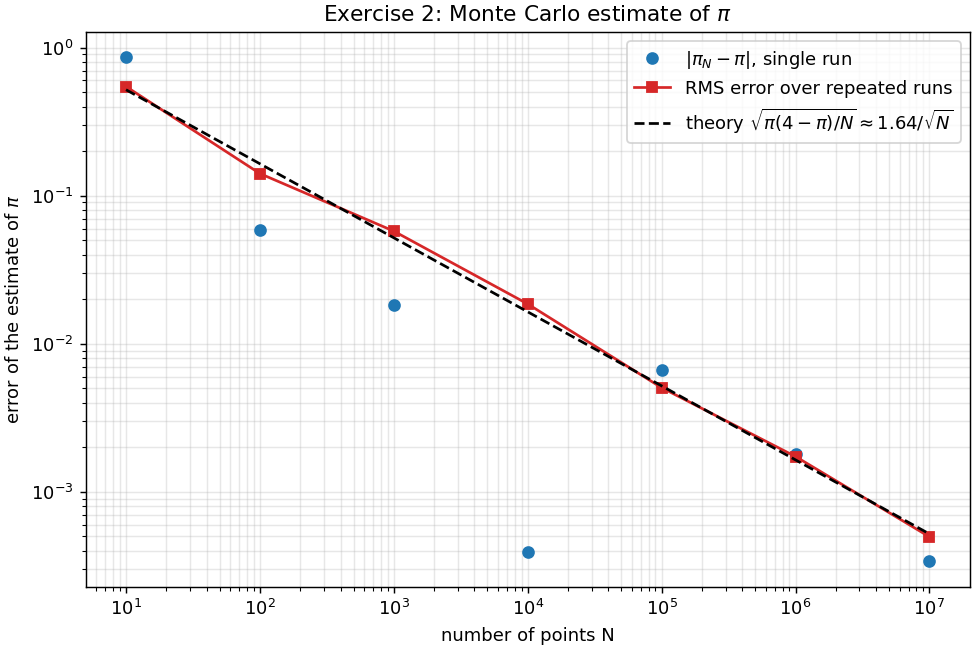
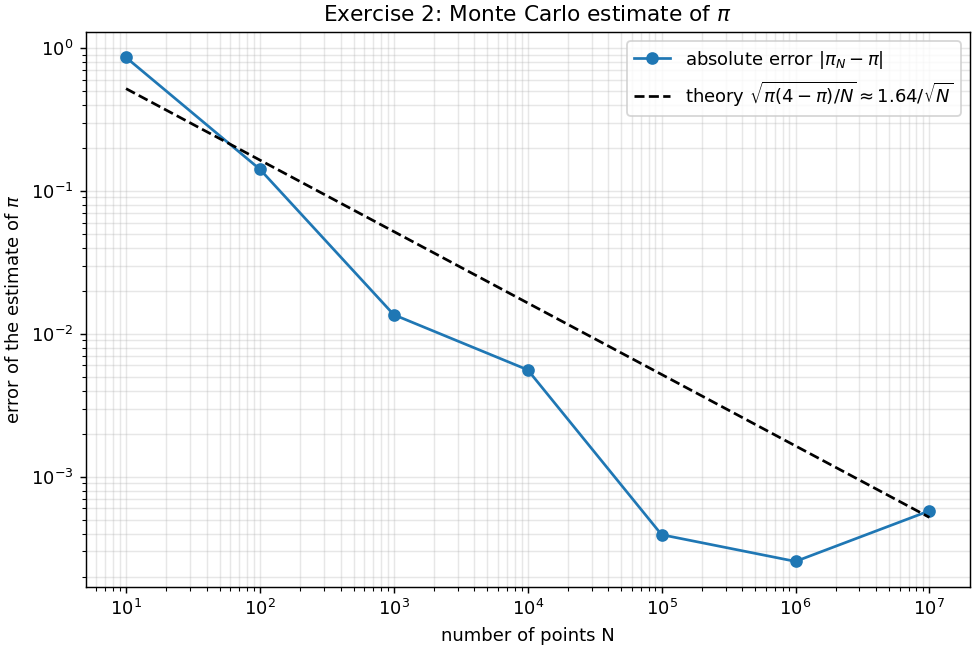
fixing

diff --git a/HomeWork7/monte_carlo_pi.c b/HomeWork7/monte_carlo_pi.c
@@ -6,13 +6,13 @@
 // As in the notebook, x and y come from two RNG STREAMS: the same generator (the LCG) started
 // from two different seeds (123 for x, 987654321 for y).
 //
-// Each "inside" is a Bernoulli variable with p = pi/4, so
+// Each "inside" is a Bernoulli variable with p = pi/4, so the expected error is
 //   sigma(pi_N) = 4 sqrt(p (1-p) / N) = sqrt(pi (4 - pi) / N) ~ 1.64 / sqrt(N).
-// For every N the estimate is repeated R times (the streams simply continue) to
-// measure the RMS error, which should follow this 1/sqrt(N) law.
+// The program estimates pi for N = 10, 100, ..., N_max and compares the absolute error
+// |pi_N - pi| with this 1/sqrt(N) law.
 //
-// Usage: ./monte_carlo_pi [N_max] [R] [seed_x] [seed_y]
-//        (default N_max = 1e7, R = 20, seeds 123 and 987654321)
+// Usage: ./monte_carlo_pi [N_max] [seed_x] [seed_y]
+//        (default N_max = 1e7, seeds 123 and 987654321)
 // Output: output/monte_carlo_pi.csv
 
 #include "common.h"
@@ -38,50 +38,28 @@ static double estimate_pi(lcg_t *gx, lcg_t *gy, unsigned long N)
 int main(int argc, char *argv[])
 {
     unsigned long N_max = arg_ulong(argc, argv, 1, 10000000, "N_max");
-    unsigned long R = arg_ulong(argc, argv, 2, 20, "R (repetitions)");
-    uint32_t seed_x = arg_seed(argc, argv, 3, 123u);
-    uint32_t seed_y = arg_seed(argc, argv, 4, 987654321u);
+    uint32_t seed_x = arg_seed(argc, argv, 2, 123u);
+    uint32_t seed_y = arg_seed(argc, argv, 3, 987654321u);
     lcg_t gx = lcg_new(seed_x); // stream 1: x coordinates
     lcg_t gy = lcg_new(seed_y); // stream 2: y coordinates
 
     FILE *f = open_output("monte_carlo_pi.csv");
-    fprintf(f, "N,pi_first_run,error_first_run,rms_error,expected_sigma\n");
+    fprintf(f, "N,pi_estimate,abs_error,expected_sigma\n");
 
-    printf("Exercise 2: Monte Carlo estimate of pi, two RNG streams (seeds %u, %u), "
-           "%lu repetitions per N\n\n", seed_x, seed_y, R);
-    printf("%11s %14s %12s %12s %14s %8s\n", "N", "pi (1st run)", "error", "RMS error",
-           "sigma theory", "ratio");
+    printf("Exercise 2: Monte Carlo estimate of pi, two RNG streams (seeds %u, %u)\n\n", seed_x,
+           seed_y);
+    printf("%11s %14s %12s %14s\n", "N", "pi estimate", "|error|", "sigma theory");
 
-    double sum_lx = 0, sum_ly = 0, sum_lxx = 0, sum_lxy = 0;
-    int points = 0;
     for (unsigned long N = 10; N <= N_max; N *= 10) {
-        double first = 0.0, sum_sq = 0.0;
-        for (unsigned long k = 0; k < R; k++) {
-            double est = estimate_pi(&gx, &gy, N);
-            if (k == 0)
-                first = est;
-            sum_sq += (est - M_PI) * (est - M_PI);
-        }
-        double rms = sqrt(sum_sq / (double)R);
+        double est = estimate_pi(&gx, &gy, N);
+        double err = fabs(est - M_PI);
         double sigma = sqrt(M_PI * (4.0 - M_PI) / (double)N);
-        printf("%11lu %14.8f %12.2e %12.2e %14.2e %8.2f\n", N, first, first - M_PI, rms, sigma,
-               rms / sigma);
-        fprintf(f, "%lu,%.12f,%.6e,%.6e,%.6e\n", N, first, first - M_PI, rms, sigma);
+        printf("%11lu %14.8f %12.2e %14.2e\n", N, est, err, sigma);
+        fprintf(f, "%lu,%.12f,%.6e,%.6e\n", N, est, err, sigma);
         fflush(stdout);
-
-        // least-squares fit of log10(rms) = a + b log10(N)
-        double lx = log10((double)N), ly = log10(rms);
-        sum_lx += lx;
-        sum_ly += ly;
-        sum_lxx += lx * lx;
-        sum_lxy += lx * ly;
-        points++;
     }
     fclose(f);
 
-    double slope = (points * sum_lxy - sum_lx * sum_ly) / (points * sum_lxx - sum_lx * sum_lx);
-    printf("\nFit RMS error ~ N^b: b = %.3f   (theory: -0.5, i.e. 100x more points -> 10x smaller"
-           " error)\n", slope);
-    printf("Results written to %s/monte_carlo_pi.csv\n", OUTPUT_DIR);
+    printf("\nResults written to %s/monte_carlo_pi.csv\n", OUTPUT_DIR);
     return 0;
 }

diff --git a/HomeWork7/plot_random.py b/HomeWork7/plot_random.py
@@ -65,9 +65,7 @@ def monte_carlo_pi():
     d = read("monte_carlo_pi.csv")
     N = d["N"]
     fig, ax = plt.subplots(figsize=(7.5, 5), constrained_layout=True)
-    ax.loglog(N, [abs(e) for e in d["error_first_run"]], "o", color="tab:blue",
-              label=r"$|\pi_N - \pi|$, single run")
-    ax.loglog(N, d["rms_error"], "s-", color="tab:red", label="RMS error over repeated runs")
+    ax.loglog(N, d["abs_error"], "o-", color="tab:blue", label=r"absolute error $|\pi_N - \pi|$")
     ax.loglog(N, d["expected_sigma"], "--", color="black",
               label=r"theory $\sqrt{\pi(4-\pi)/N} \approx 1.64/\sqrt{N}$")
     ax.set_xlabel("number of points N")

diff --git a/HomeWork7/README.md b/HomeWork7/README.md
@@ -69,31 +69,30 @@ x² + y² ≤ 1 estimates its area π/4, so π_N = 4·(points inside)/N.
 started from two different seeds, 123 for the x coordinates and 987654321 for the y
 coordinates.
 
-**Error.** Each point is "inside" with probability p = π/4, so the theoretical error is
-σ = √(π(4−π)/N) ≈ 1.64/√N. Every N is repeated R = 20 times (the streams simply continue) to
-measure the RMS error:
+**Error.** Each point is "inside" with probability p = π/4, so the expected error of π_N is
+σ = √(π(4−π)/N) ≈ 1.64/√N. The program estimates π for N = 10, 10², …, 10⁷ and compares the
+absolute error |π_N − π| with σ:
 
-| N | π (1st run) | Error | RMS error (20 runs) | σ theory |
-|---|---|---|---|---|
-| 10 | 4.0000000 | 8.6·10⁻¹ | 5.5·10⁻¹ | 5.2·10⁻¹ |
-| 10² | 3.2000000 | 5.8·10⁻² | 1.4·10⁻¹ | 1.6·10⁻¹ |
-| 10³ | 3.1600000 | 1.8·10⁻² | 5.8·10⁻² | 5.2·10⁻² |
-| 10⁴ | 3.1412000 | −3.9·10⁻⁴ | 1.9·10⁻² | 1.6·10⁻² |
-| 10⁵ | 3.1482000 | 6.6·10⁻³ | 5.1·10⁻³ | 5.2·10⁻³ |
-| 10⁶ | 3.1433960 | 1.8·10⁻³ | 1.7·10⁻³ | 1.6·10⁻³ |
-| 10⁷ | 3.1419312 | 3.4·10⁻⁴ | 5.0·10⁻⁴ | 5.2·10⁻⁴ |
-
-**Fitted slope:** RMS error ∝ N^b with **b = −0.500** (theory −0.5).
+| N | π_N | \|π_N − π\| | σ theory |
+|---|---|---|---|
+| 10 | 4.0000000 | 8.6·10⁻¹ | 5.2·10⁻¹ |
+| 10² | 3.0000000 | 1.4·10⁻¹ | 1.6·10⁻¹ |
+| 10³ | 3.1280000 | 1.4·10⁻² | 5.2·10⁻² |
+| 10⁴ | 3.1360000 | 5.6·10⁻³ | 1.6·10⁻² |
+| 10⁵ | 3.1412000 | 3.9·10⁻⁴ | 5.2·10⁻³ |
+| 10⁶ | 3.1418480 | 2.6·10⁻⁴ | 1.6·10⁻³ |
+| 10⁷ | 3.1410156 | 5.8·10⁻⁴ | 5.2·10⁻⁴ |
 
 ![Monte Carlo pi](plots/monte_carlo_pi.png)
 
 **Comment.**
-- **The error decreases like 1/√N.** Every extra correct digit costs 100× more points, and
-  10⁷ points give only ~3 correct decimals. The 1/√N law doesn't depend on the dimension of
-  the integral, which is why Monte Carlo wins for high-dimensional integrals.
-- **A single run is not a measure of the error.** At N = 10⁴, the first run (3.1412, error
-  3.9·10⁻⁴) is 50× more accurate than the typical error at that N (1.9·10⁻²), almost as
-  accurate as 10⁷ points. It was lucky. Only the RMS over many runs follows the 1/√N law.
+- **The error decreases like 1/√N.** Over six orders of magnitude of N the error goes from
+  ~1 to ~10⁻³ and stays below or around σ ≈ 1.64/√N: every extra correct digit costs 100×
+  more points, and 10⁷ points give only ~3 correct decimals.
+- **The error of a single estimate fluctuates.** σ is only the typical size of the error, so
+  for a given N the error can be smaller than σ, as at N = 10⁵ and 10⁶, and it does not
+  always decrease from one N to the next: at N = 10⁷ it is slightly larger than at 10⁶,
+  but still about one σ.
 
 ## 3. Change of variables: Y = U²
 
